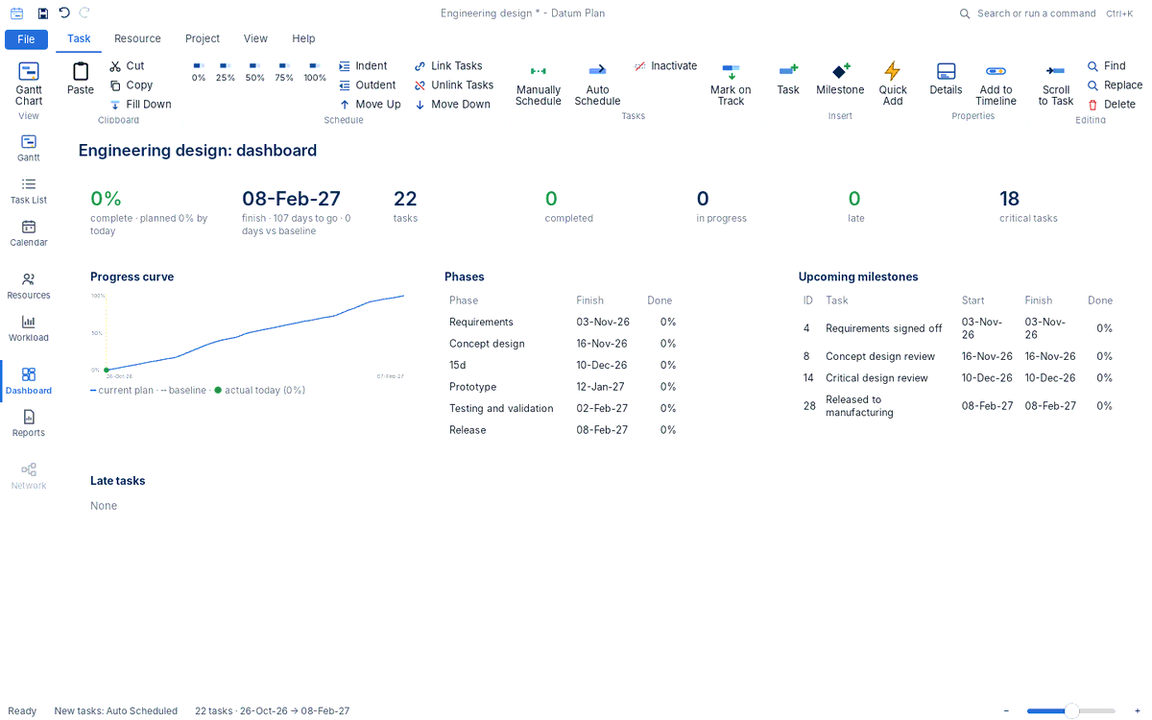
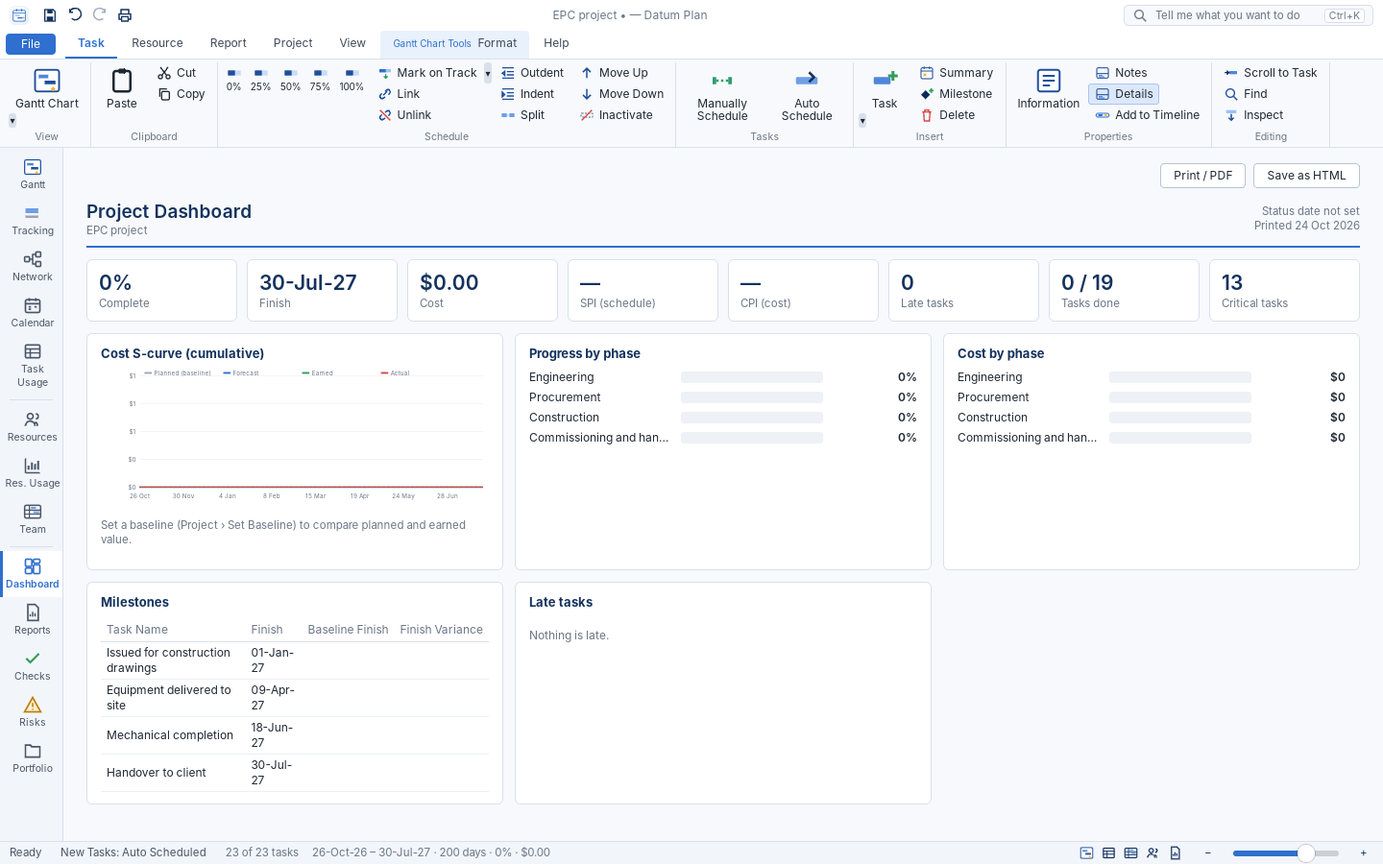
Release 0.3.0: version bump, changelog, README, project memory
Claude-Session: https://claude.ai/code/session_01U95SoCZjekwdNVu1deE1Dy

diff --git a/ui/src/grid.tsx b/ui/src/grid.tsx
@@ -184,7 +184,7 @@ export const Grid = (p: { width?: number }) => {
             draggable onDragStart={() => setDrag(k())} onDragEnd={() => setDrag(null)} onDragOver={e => e.preventDefault()}
             onDrop={() => { const f = drag(); if (f === null || f === k()) return; const v = [...cols()]; const [m] = v.splice(f, 1); v.splice(k(), 0, m); saveCols(v); setDrag(null); }}
             onContextMenu={e => headMenu(e, k())} onDblClick={() => D.fieldSettings(k())}>
-            <span>{c.name}</span><button class="dd" onClick={e => headMenu(e, k())}><Icon n="chev" /></button><i class="rz" onMouseDown={e => resize(e, k())} />
+            <span>{c.key === "mode" && widths()[k()] < 50 ? "" : c.name}</span><button class="dd" onClick={e => headMenu(e, k())}><Icon n="chev" /></button><i class="rz" onMouseDown={e => resize(e, k())} />
           </div>
         )}</For>
         <div class="hc add" onClick={e => openMenu(e, fieldMenu(key => saveCols([...cols(), [key, 90]])))}>Add New Column ▾</div>

diff --git a/ui/src/ui.tsx b/ui/src/ui.tsx
@@ -48,7 +48,7 @@ export const Dialog = (p: { title: string; wide?: boolean; children: JSX.Element
     if (e.key === "Enter" && !(e.target instanceof HTMLTextAreaElement) && !(e.target instanceof HTMLButtonElement)) { e.preventDefault(); done(); }
   };
   let el!: HTMLDivElement;
-  onMount(() => (el.querySelector("input,select,textarea") as HTMLElement | null)?.focus());
+  onMount(() => ((el.querySelector("input:not([type=checkbox]),textarea") ?? el.querySelector(".btn.pri")) as HTMLElement | null)?.focus());
   return (
     <div class="ov" onKeyDown={key}>
       <div class="dlg" classList={{ wide: p.wide }} ref={el}>

diff --git a/docs/MEMORY.md b/docs/MEMORY.md
@@ -6,11 +6,11 @@
 | | |
 | --- | --- |
 | **Product** | Datum Plan: a Windows desktop scheduler combining MS Project (look, ease of use) and Primavera P6 (power features) |
-| **Current version** | **0.2.0** (released 2026-10-24). Earlier: 0.1.0, 0.1.1 |
+| **Current version** | **0.3.0** (released 2026-10-24). Earlier: 0.1.0, 0.1.1, 0.2.0 |
 | **Repo** | `Edgar-Mendonca/Datum-Plan` · working branch `claude/fervent-keller-ddas5s` (currently also the default branch) |
-| **Stack** | Rust (engine + shell), Tauri 2, WebView2, strict TypeScript UI with no framework, plain CSS |
-| **Code size** | About 5,400 lines: core 3,000 (with 311 lines of tests), shell 520, UI 1,550 TypeScript + CSS |
-| **Installer** | NSIS `.exe`, per-user install. 1.7 MB (0.1.0), 1.8 MB (0.1.1); 2.4 MB (0.2.0) |
+| **Stack** | Rust (engine + shell), Tauri 2, WebView2, SolidJS + Vite UI in strict TypeScript (TSX), plain CSS |
+| **Code size** | About 9,300 lines: core 5,700 (with 460 lines of tests), shell 700, UI 2,900 TSX + CSS |
+| **Installer** | NSIS `.exe`, per-user install. 1.7 MB (0.1.0), 1.8 MB (0.1.1), 2.4 MB (0.2.0); UI bundle 200 kB JS (61 kB gzip) in 0.3.0 |
 | **Reference repos** | `Edgar-Mendonca/Cairn` (the earlier web planner: feature and template reference) · `Compressor-Engineering-Suite` (the Home/update pattern) |
 
 ---
@@ -19,42 +19,43 @@
 
 ```mermaid
 flowchart LR
-  subgraph UI["Window (WebView2) · ui/ + ui-src/*.ts"]
-    Ribbon[Ribbon: Task · Resource · Project · View · Help<br/>Ctrl+K search · Ctrl+J quick add]
-    Grid[grid.ts: any-field columns, editing,<br/>clipboard, find, row menus]
-    Gantt[gantt.ts: canvas Gantt + timeline strip,<br/>drag move/resize/progress/link]
-    Det[details.ts: P6-style pane<br/>General · Relationships · Resources · Notes]
-    Pages[pages.ts: Calendar · Resource Sheet ·<br/>Workload · Dashboard · Reports]
-    Dlg[dialogs.ts: Project Info · Working Time ·<br/>Options · Import mapping · Palette]
-    Home[main.ts: backstage Home/Templates/<br/>Import/Export/Updates]
+  subgraph UI["Window (WebView2) · ui/src/*.tsx → Vite → ui/dist"]
+    Store[store.ts: signals for plan, view, table, filter,<br/>group, sort, selection; act(op) and refresh()]
+    Rib[ribbon.tsx: tabs, dropdowns, QAT, Tell Me]
+    Grid[grid.tsx: virtual rows, inline edit,<br/>header menus, column drag/resize]
+    Gantt[gantt.tsx: canvas Gantt + timeline]
+    Det[details.tsx: P6 tabs]
+    Views[views.tsx: network, calendar, usage, resources,<br/>graph, team, risks, checks, portfolio]
+    Rep[reports.tsx: dashboard, report gallery, charts]
+    Dlg[dialogs.tsx: information, calendars, custom fields,<br/>filters, groups, sorts, baselines, import, compare]
+    BS[backstage.tsx + setup.tsx: File, Options, updates,<br/>Project Setup panel]
   end
   subgraph Shell["src-tauri (Rust)"]
-    Cmd[main.rs commands: state · apply · history · new_plan · templates<br/>open · save · import · import_table · export · copy · paste<br/>detail · workload · options · autosave · recovery]
-    Upd[update.rs: GitHub API · SHA-256 · silent install]
+    Cmd[main.rs: state · apply · history · query · resources · field_list<br/>task_info · usage · curve · checks · network · compare · workspace<br/>open · save · import · export · save_file · pick_logo · options · recovery]
+    Upd[update.rs: GitHub API · beta channel · SHA-256 · silent install]
   end
-  subgraph Core["crates/core (pure Rust, 13 tests)"]
+  subgraph Core["crates/core (pure Rust, 18 tests)"]
     Doc[doc.rs: Op enum · undo/redo · .dplan]
-    Sched[sched.rs: multi-calendar CPM · constraints<br/>progress · summary links · ALAP]
-    Cal[cal.rs: minute-precision working time]
-    Load[load.rs: work · cost · overallocation · workload]
-    View[view.rs: rows with ~35 fields · resource rows · details]
-    IO[io/: mspdi.rs · xer.rs · table.rs csv+xlsx · xml.rs]
-    Model[model.rs: Project · Task · Calendar · Resource<br/>format 2 + migration from 0.1 files]
+    Sched[sched.rs: CPM · calendars · progress · LOE<br/>longest path · float paths · from finish]
+    Level[level.rs: resource leveling]
+    Fields[fields.rs: Calc · ~450 fields · EV · custom fields<br/>formulas · indicators · filter tests]
+    Query[query.rs: filter · group · sort · outline → Grid + bars]
+    Rep2[report.rs · check.rs · network.rs<br/>usage · curves · compare · DCMA · layout]
+    Form[formula.rs: MSP formula language]
+    Load[load.rs: timephased work and cost]
+    IO[io/: mspdi · xer · table · formats pmxml/mpx/ics/html/json]
   end
   UI -- "invoke(cmd, args)" --> Cmd
-  Cmd -- "View JSON (camelCase)" --> UI
-  Home -- check_update / install_update --> Upd
-  Cmd --> Doc & View & IO & Load
-  Doc --> Sched --> Cal
-  View --> Sched & Load
-  IO --> Model
+  Cmd --> Doc & Query & Rep2 & IO
+  Doc --> Sched
+  Query --> Fields --> Sched & Load & Form
+  Rep2 --> Fields
 ```
 
 **Rules:**
-- The UI never calculates dates.
-- Every edit is an `Op` sent to Rust. The core applies it to a copy, normalises it, schedules it, and keeps it only if it is valid (so cycles are refused).
-- The core then returns a complete `View`, formatted in the user's date format.
-- Dashboard and report numbers are computed in the UI from that `View`.
+- The UI never calculates dates, values or filters. Every edit is an `Op`; the core applies it to a copy, normalises, schedules and keeps it only if valid.
+- After an edit `apply` returns `Out` (project settings without tasks + `Summary`). The window then calls `query(Query)` for the rows it shows; `Calc` (fields.rs) evaluates any field for any row.
+- Window-only settings (saved filters, extra tables) live in `Project.ui`; the Entry table's columns in `Project.columns`.
 
 ### Time model (since 0.2)
 - **Instants** are minutes since 1970-01-01 00:00 local time. **Durations and lags** are working minutes.
@@ -75,28 +76,30 @@ flowchart LR
 
 | Path | What it does |
 | --- | --- |
-| `crates/core/src/model.rs` | Model and file format 2: Task (dur, unit, preds, pct, constraint/cdate, deadline, manual/mstart, inactive, cal, actuals, res, bl, timeline, code, notes), Calendar, Exception, Resource, Project (status, day_min, manual_default, calendars, resources, columns). `from_json` upgrades 0.1 files. `normalize()` repairs data. |
-| `crates/core/src/cal.rs` | `WorkCal`: `add`, `sub`, `between`, `next_start`, `prev_end`, `in_or_end`, `end_of`, `day_minutes`. `at(date)` and `date_of(t)` convert between dates and instants. |
-| `crates/core/src/sched.rs` | CPM as described above. Returns `Sched` with es/ef/ls/lf/tf/ff, summary/off flags, calendar index per task, the calendars, and start/finish. |
-| `crates/core/src/load.rs` | Work and cost per task and resource, daily load, overallocation, and `workload(weekly)` buckets for the Workload view. |
-| `crates/core/src/parse.rs` | Durations with units, dates (display format first), predecessors `3SS+4h`, resources `Name[50%]`, constraint names, and the quick-add sentence parser. |
-| `crates/core/src/doc.rs` | Ops: Insert, InsertRows, QuickAdd, Paste, Delete, Set (about 20 fields), Indent, Outdent, Move, Link, LinkSet, Unlink, MarkOnTrack, Baseline, Project, CalPut, CalDelete, ResInsert, ResSet, ResDelete, Columns, Batch. Also undo/redo (200 steps), `copy()`, and `set()` (reused by the importers). |
-| `crates/core/src/view.rs` | `build(p, date_fmt, today)` → View (rows, resources, calendars, columns, totals, baseline finish and variance). `detail(uid)` → relationships and assignments. |
-| `crates/core/src/templates.rs` | 5 starter plans as `level\|name\|duration\|preds` lines. |
-| `crates/core/src/io/` | `mod.rs` dispatches by extension. `mspdi.rs`: MS Project XML in/out (calendars with exceptions, tasks, links, baselines, resources, assignments). `xer.rs`: P6 XER in/out (CALENDAR with clndr_data parser/writer, PROJECT, PROJWBS ↔ summaries, TASK, TASKPRED, RSRC, TASKRSRC). `table.rs`: CSV/XLSX read with header guessing + mapping → plan; CSV/XLSX write. `xml.rs`: a 60-line XML reader. |
-| `crates/core/src/tests.rs` | 13 tests: calendar arithmetic, CPM/float, link types and hour lags, constraints/deadline/ALAP, task calendars, summary links, inactive tasks, progress/status date, edits/undo/move/paste, resources/costs/baseline/workload, calendar ops/project settings, quick add/rows, parsing, templates + 0.1 migration, and round trips for XML, XER, CSV and XLSX. |
-| `src-tauri/src/main.rs` | App state (Doc, options, clipboard, pending import table), file dialogs, recent files, options.json, recovery.dplan in AppData (written by the `autosave` command on a UI timer; offered at start-up; cleared on save or a clean quit). |
-| `src-tauri/src/update.rs` | Updater (unchanged since 0.1.0). |
-| `ui/index.html` | Layout: title bar with search, ribbon, sidebar, timeline strip, grid, Gantt, details pane, page area, backstage, and the icon sprite (about 55 icons). |
-| `ui/styles.css` | Light theme tokens, all components, print styles. |
-| `ui-src/base.ts` | Types, the field catalogue `FIELDS`, state, core calls, dates, `dialog()` (resolves before removing, so inputs stay readable), `menu()`, toast. |
-| `ui-src/grid.ts` | Columns from `V.columns`, render/virtualise, edit with choice lists, column picker/header menu/resize, row commands, clipboard (DOM copy/cut/paste events; internal marker plus TSV for Excel), find/replace, row menu. |
-| `ui-src/gantt.ts` | Timescale (day/week/month/quarter/year), bars (baseline, manual, inactive, deadline, progress), links, today and status lines, timeline strip, zoom, drag modes `move`/`size`/`pct`/`link`. |
-| `ui-src/details.ts` | The details pane and its tabs; edits go through `Set` and `LinkSet` ops. |
-| `ui-src/pages.ts` | Calendar, Resource Sheet (inline editing), Workload heat table, Dashboard (KPIs, S-curve with baseline, phases, milestones, late), Reports (weekly/monthly, look-ahead, slipped vs baseline, print). |
-| `ui-src/dialogs.ts` | Project Information, Change Working Time, Options, Import (mapping), Export, Ctrl+K palette, Ctrl+J quick add, shortcuts. |
-| `ui-src/main.ts` | `CMDS` registry (ribbon, palette and keys share it), `RIBBON` layout, view sidebar, backstage, files, updates, keyboard, start-up (recovery prompt, autosave timer). |
-| `ui-src/tsconfig.json` | Joins the 7 files in order into `ui/main.js` (no modules, one global scope). |
+| `crates/core/src/model.rs` | File format 3: Task (also task type, effort, activity/% complete type, physical %, elapsed, splits, leveling delay, priority, fixed cost + accrual, custom values, codes, steps, notebook, expenses, docs, 11 baselines in `bls`), Resource (rate tables, availability, calendar, overtime), Project (setup fields, logo, currency, Activity ID numbering, `SchedOpts`, custom field defs, codes, risks, snapshots, `ui`). Migrates formats 1–2. |
+| `crates/core/src/cal.rs` | `WorkCal`: working-time arithmetic. |
+| `crates/core/src/sched.rs` | CPM → `Sched` (es/ef/ls/lf/tf/ff, edges with driving flags, longest path, float paths, calendars incl. a 24-hour one). `critical()` follows the options. |
+| `crates/core/src/level.rs` | Serial leveling with a fixed rank; `clear`. |
+| `crates/core/src/load.rs` | Work/cost per task, assignment and day (rate tables, accruals, actuals); `buckets(day/week/month/quarter)`. |
+| `crates/core/src/formula.rs` | MS Project formula parser and evaluator (34 functions). |
+| `crates/core/src/fields.rs` | Field registry (`task_fields`, `resource_fields`), `Calc` (one scheduled plan + loads + EV), `val/text/format/icon`, filter `test`, `money`. |
+| `crates/core/src/query.rs` | `Query` → `Grid` (cols, rows with cells, icons, bar geometry), built-in filters, `Summary`. |
+| `crates/core/src/report.rs` | Usage grids, cost/EV curves, compare. |
+| `crates/core/src/check.rs` | DCMA 14 + P6 checks with limits. |
+| `crates/core/src/network.rs` | Network Diagram layout (columns by logic, rows by predecessor position). |
+| `crates/core/src/parse.rs` | Durations (also elapsed), dates, predecessors (also % lags), resources, quick add. |
+| `crates/core/src/doc.rs` | Ops (see the enum: edits, Level, Split, Interim, UpdateProject, Snapshot, ProjectSet, FieldDef, CodeDef, Risk, TaskList, ResJson, Ui, Baseline n, …), undo/redo, `.dplan`. |
+| `crates/core/src/io/` | `mspdi.rs`, `xer.rs`, `table.rs` (CSV/XLSX in with mapping; out with chosen columns), `formats.rs` (JSON, HTML, ICS, MPX, PMXML out), `xml.rs`. JSON/dplan import. |
+| `crates/core/examples/` | `bench.rs` (20k-task timing), `dump.rs` (JSON fixtures for UI tests). |
+| `crates/core/src/tests.rs` | 18 tests. |
+| `src-tauri/src/main.rs` | Commands listed in the diagram; options (date format, autosave, beta, default currency, company, logo, workspace, setup panel); backups of format < 3 files; recovery. |
+| `src-tauri/src/update.rs` | Updater; `check(beta)` reads `/releases` when beta is on; versions compare with pre-release tags. |
+| `ui/index.html` | Root and the icon sprite (about 65 icons). `ui/public/logo.svg`. |
+| `ui/src/api.ts` | Types matching the Rust JSON, `invoke`, date and money helpers. |
+| `ui/src/store.ts` | Global signals, built-in tables, `query()`, `refresh()`, `act()`, menus, dialogs, toast. |
+| `ui/src/cmds.ts` | Command functions `C` and the `ALL_CMDS` list for Tell Me. |
+| `ui/src/ui.tsx` | Icon, Menu (with submenus), Dialog, Tabs, form helpers. |
+| `ui/src/grid.tsx`, `gantt.tsx`, `details.tsx`, `views.tsx`, `reports.tsx`, `dialogs.tsx`, `ribbon.tsx`, `backstage.tsx`, `setup.tsx`, `main.tsx` | As in the diagram. `styles.css` holds the light theme and print styles. |
 
 ### Update flow
 
@@ -155,6 +158,10 @@ flowchart LR
 | 0.3 plan | **Datum scheduling style** (PLAN-0.3 §3.P): fixed duration, single Progress field, retained logic, slack ≤ 0 critical with a longest-path switch, auto actuals, an Explain panel, calculated cells marked | The user wants something easier than both MSP and P6. |
 | 0.3 plan | **Project Setup** panel (skippable, docked right) as step one of every new plan; all ISO currencies; logo and company branding; Activity IDs A1000+10; MSP-style network; MSP density; English only; beta backups | The user's answers, 2026-10-24. |
 | 0.3 plan | `docs/reference/MSP-P6-feature-reference.md` (from the user) is the behaviour spec; its C2 scenarios become tests and a checklist | A shared, written definition of done. |
+| 0.3.0 | Shipped as one release (no betas) because the user asked to "build and release 0.3" | Betas stay available through the opt-in channel for later versions. |
+| 0.3.0 | The engine owns fields, filters, groups and sorts (`Calc` + `query`); the window asks for rows per view | One place for values, exports use the same text; 20k tasks query in ~50 ms. |
+| 0.3.0 | Print/PDF through the WebView print dialog ("Save as PDF") with print CSS, instead of a PDF library | No extra dependency; works for every view and report. |
+| 0.3.0 | Templates still use the Project Setup panel (setup_done = false) | Setup is step one of every new plan, as agreed. |
 
 ---
 
@@ -167,7 +174,8 @@ flowchart LR
 | **0.1.0** | Shell + updater + core | Installer, Home, updater, ribbon, grid, summaries, links, CPM, Gantt, undo, `.dplan` | ✅ |
 | **0.1.1** | Look, views, reports | Light theme, logo, sidebar, templates, drag bars, Calendar, Dashboard, weekly/monthly report | ✅ |
 | **0.2.0** | The big one | Grid power (any column, clipboard, fill, move, find/replace, menus), Gantt power (timeline, progress drag, details pane, link editing), Ctrl+K, Ctrl+J, Options, recovery, minute calendars + exceptions + task calendars, all constraints + deadlines, manual/inactive tasks, summary links, status date + actuals + Mark on Track, baselines + variance, resources + costs + workload, import/export XML/XER/XLSX/CSV | ✅ |
-| **0.3.0** | MSP look + P6 power (one big release, shipped as betas) | Everything planned for 0.2.1 → 0.5.2, network diagram included. Full scope and beta milestones in **[PLAN-0.3.md](PLAN-0.3.md)**: MSP ribbon with dropdowns and Format tabs, about 450 fields + custom fields/formulas/lookups/indicators, Field Settings, Information dialogs, tables, filters, groups and views, formatting, task types, leveling, P6 activity types, longest path, usage views, Team Planner, Network Diagram, 11 baselines, Update Project, earned value, costs, report gallery and designer, page setup/PDF, DCMA check, compare, risks, EPS workspace, new formats (P6 XML, MPX, ICS, HTML, JSON) | 🔜 plan under review |
+| **0.3.0** | MSP look + P6 power (one big release) | Everything planned for 0.2.1 → 0.5.2, network diagram included. Full scope and beta milestones in **[PLAN-0.3.md](PLAN-0.3.md)**: MSP ribbon with dropdowns and Format tabs, about 450 fields + custom fields/formulas/lookups/indicators, Field Settings, Information dialogs, tables, filters, groups and views, formatting, task types, leveling, P6 activity types, longest path, usage views, Team Planner, Network Diagram, 11 baselines, Update Project, earned value, costs, report gallery and designer, page setup/PDF, DCMA check, compare, risks, EPS workspace, new formats (P6 XML, MPX, ICS, HTML, JSON) | ✅ (see 0.3.1 for what slipped) |
+| 0.3.1 | Polish | Report designer, Page Setup dialog, bar/text styles editor, recurring tasks, Relationship diagram, global change, EPS hierarchy, XER/MSPDI custom fields and codes, the reference's C2 scenarios as tests | 🔜 |
 | 0.6.0 | Portfolio | Portfolio dashboard, master/subprojects, shared resource pool, cross-project links | ⬜ |
 | 0.6.1 | Hardening | 100k-activity performance, code signing, signed updater, crash reports, dark theme | ⬜ |
 | 1.0.0 | Stable | — | ⬜ |
@@ -177,7 +185,8 @@ flowchart LR
 - Dashboard with S-curve and baseline curve ✅
 - Command search ✅ and quick-add sentences ✅
 - Recovery copies ✅
-- Later: period snapshots with comments and photos, schedule health score, one-click report pack, what-if comparison
+- Project Setup panel, DCMA check with drill-down, risk register, snapshots with trend ✅ (0.3.0)
+- Later: schedule health score, one-click report pack, what-if comparison
 
 ### Gap analysis (MSP, P6 and Cairn vs Datum Plan)
 | Area | MS Project | Primavera P6 | Cairn 0.8 | Datum Plan |
@@ -187,15 +196,15 @@ flowchart LR
 | Column picker | ✓ | ✓ | ✓ | ✓ 0.2 (custom fields and formulas in 0.3) |
 | Calendars (hours, exceptions, many) | ✓ | ✓ | ✓ | ✓ 0.2 (resource calendars in 0.3) |
 | Constraints, deadlines, manual, inactive | ✓ | ✓ | ✓ | ✓ 0.2 |
-| Task types, effort-driven, recurring, split | ✓ | duration types | ✓ | 0.3 |
+| Task types, effort-driven, recurring, split | ✓ | duration types | ✓ | ✓ 0.3 (recurring in 0.3.1) |
 | File exchange (XLSX, CSV, XML, XER) | ✓ | ✓ | ✓ | ✓ 0.2 |
 | Resources, costs, workload | ✓ | ✓ | ✓ | ✓ 0.2 (leveling in 0.3, rates over time in 0.3) |
 | Baseline, actuals, status date | ✓ | ✓ | ✓ | ✓ 0.2 (11 baselines and earned value in 0.3) |
-| EPS, activity codes, multi-project | master projects | ✓ | — | 0.3 |
-| Filters, groups, layouts, global change | ✓ | ✓ | ✓ | 0.3 |
-| Schedule check, longest path, float paths | — | ✓ | partial | 0.3 |
-| Network diagram | ✓ | ✓ | ✓ | 0.3 |
-| Dashboards and periodic reports | basic | basic | 16 reports | ✓ 0.1.1/0.2, more in 0.3 |
+| EPS, activity codes, multi-project | master projects | ✓ | — | ✓ 0.3 codes + portfolio folder |
+| Filters, groups, layouts, global change | ✓ | ✓ | ✓ | ✓ 0.3 (global change 0.3.1) |
+| Schedule check, longest path, float paths | — | ✓ | partial | ✓ 0.3 |
+| Network diagram | ✓ | ✓ | ✓ | ✓ 0.3 |
+| Dashboards and periodic reports | basic | basic | 16 reports | ✓ 0.3 (10 reports + dashboard) |
 
 ---
 
@@ -239,9 +248,19 @@ flowchart LR
 
 ---
 
+### 2026-10-24: Session 5 (0.3.0)
+- The user said "build and release 0.3". Built it as one release.
+- Engine: model format 3; scheduler upgrades (elapsed, % lags, splits, LOE/WBS summary, retained logic/progress override, schedule from finish, longest path, float paths, lag calendars); leveling; task types; formula language; field registry with EV; query API; usage/curves/compare; DCMA + P6 checks; network layout; new export formats. Benchmark: 20k tasks schedule 36 ms, calc 44 ms, grid 49 ms (release).
+- Shell: new commands, beta channel, backups of older plans, logo picker, file saving for pictures and HTML.
+- UI: rewritten in SolidJS + Vite (10 TSX files). Ribbon with dropdowns, Tell Me, grid with header menus, Gantt + timeline, P6 details tabs, all views, reports, dialogs, Project Setup panel.
+- Tested in the real app under Xvfb: templates, Project Setup, inline edits rescheduling, context menu, Task Information, baseline + progress, Tracking Gantt, weekly report, Network Diagram, Calendar, Task Usage, Checks, Dashboard. Bugs fixed: a global `svg` size rule hid the network diagram; Enter in a dialog's first select did not press OK; select text clipped in WebKitGTK; keys only worked with focus inside the app div.
+- UI test harness: `cargo run -p datum-core --example dump > fix.json`, then a Playwright script that serves `ui/dist` with a mocked `window.__TAURI__` (kept in the session scratchpad; rebuild it from this note if needed).
+
+---
+
 ## 5. Known limits and next steps
-- Windows SmartScreen warns on the first install (unsigned). Updates after that are silent. **Confirm with the user that 0.1.x → 0.2.0 updated in-app.**
-- XER export is checked against our own importer only. MSPDI export is checked against our own reader; it needs a real MS Project test.
-- Large plans: the grid is virtualised, but `view::build` and links run on every edit. Profile 10k+ tasks in 0.6.1.
-- Printing prints the current view only. Page setup comes in 0.2.1.
-- All decisions are answered and the reference is stored. Waiting for the user's "yes" to start the 0.3 build (beta.1 first). Read PLAN-0.3.md §3.P–T and the reference before building.
+- Windows SmartScreen warns on the first install (unsigned). Updates after that are silent.
+- XER/PMXML/MPX exports are checked against our own readers only; needs real P6 and MS Project tests. Custom fields and codes are not yet written to XER/MSPDI.
+- The grid fetches all visible rows per change (about 8 MB JSON at 20k tasks); fine to ~20k, 100k needs row windows (0.6.1).
+- Not built yet (0.3.1): report designer, Page Setup dialog, bar/text style editors, recurring tasks, Relationship diagram, global change, EPS tree, the reference's C2 scenario tests.
+- Templates have no resources or costs, so cost reports are empty until resources are added.

diff --git a/CHANGELOG.md b/CHANGELOG.md
@@ -1,5 +1,71 @@
 # Changelog
 
+## 0.3.0 — 2026-10-24
+
+The biggest release so far: the MS Project look and feel with Primavera P6 power, rebuilt from the engine up. Everything planned for 0.2.1 to 0.5.2 is in this one release, including the network diagram.
+
+**A new window (SolidJS)**
+- MS Project ribbon: Task, Resource, Report, Project, View and the Gantt Chart Tools Format tab, with dropdown and split buttons (Gantt Chart, Filter, Group by, Sort, Tables, Outline, Timescale, Baseline, Export).
+- Tell Me (Ctrl+K or Alt+Q) searches every command. Quick access toolbar with Save, Undo, Redo and Print.
+- Task sheet at MS Project density (20 px rows): drag columns to reorder, resize, double-click a heading for Field Settings, right-click a heading to insert, hide, sort, group or filter, and an "Add New Column" picker over about 450 fields.
+- Inline editing with choice lists, Tab/Enter navigation, type-to-edit, a blank row for new tasks, indicators for late and manual tasks, and a task mode column.
+- Status bar with filter state, task count, project figures, view shortcuts and a zoom slider.
+
+**Fields, custom fields and formulas**
+- About 450 task fields: general, schedule, progress, work and cost, 11 baselines (start, finish, duration, cost, work), variances, earned value, and custom Text1–30, Number1–20, Flag1–20, Date, Cost, Duration, Start, Finish and Outline Code fields.
+- Custom Fields dialog: rename (alias), lookup tables with restricted values and defaults, MS Project formulas (`IIf`, `Switch`, `ProjDateDiff`, `DateAdd`, 34 functions, `[Field]` references), summary rollups and graphical indicators.
+- Activity codes (P6) with values and colours: show as columns, group and filter by them.
+- Inspect shows every field of a task.
+
+**Views**
+- Gantt Chart and Tracking Gantt with critical path, slack, late bars, baseline 0–10, splits, deadlines, today and status lines, bar labels, and drag to move, resize, link or set progress.
+- MS Project timeline across the top.
+- Network Diagram (MS Project style boxes, critical links, progress crosses, milestones).
+- Calendar, Task Usage, Resource Usage (days, weeks, months, quarters; work or cost; overallocation in red), Resource Sheet, Resource Graph and Team Planner.
+- Tables: Entry, Schedule, Tracking, Cost, Work, Variance, Earned Value, Summary, Baseline and P6 Activities, plus your own.
+- Filters (20 built-in plus your own, with and/or conditions, related summaries and highlight mode), groups (several levels, with rolled-up dates and costs) and sorts that keep the outline. Outline levels, expand and collapse, project summary task.
+
+**Primavera P6 power**
+- Details pane with P6 tabs: General, Status, Resources, Predecessors, Successors (with driving links and float), Codes, Steps (weighted physical %), Notebook, Expenses, WPs & Docs, Custom Fields, Risks and Notes.
+- Activity types (task dependent, resource dependent, level of effort, start/finish milestone, WBS summary) and % complete types (duration, units, physical).
+- Schedule options: retained logic or progress override, critical by float or longest path, lag calendar, float paths, schedule from finish, open ends.
+- Elapsed durations (`3ed`), percentage lags (`2SS+50%`), task splits, priorities and leveling delay.
+- Resource leveling (standard, priority or ID order, within slack) and clearing it.
+- Task types: fixed duration, fixed units and fixed work, effort driven.
+
+**Costs, progress and earned value**
+- Cost rate tables A–E with dated rate changes, overtime rates, availability periods and resource calendars.
+- Fixed costs and expenses with start, prorated or end accrual.
+- 11 baselines, Update Project, Store Period Performance (snapshots) and trend reports.
+- Earned value per task and project: PV, EV, AC, SV, CV, SPI, CPI, BAC, EAC, VAC, TCPI.
+- Currencies: any ISO 4217 code, chosen per plan, with symbol and decimals.
+
+**Reports and dashboards**
+- Dashboard: complete, finish, cost, SPI, CPI, late and critical counts, cost S-curve (planned, forecast, earned, actual), progress and cost by phase, milestones and late tasks.
+- Report gallery: Project Overview, Weekly/Monthly Progress, Earned Value, Cost Overview with cash flow, Work Overview, Critical Tasks, Late & Slipping, Milestones, Upcoming Tasks and Trend.
+- Your logo and company name on every report. Print or save as PDF, save as HTML, save the Gantt chart as a PNG picture.
+- Check Schedule: the DCMA 14-point assessment plus P6 checks (long lags, SF links, soft constraints, manual tasks, summary links, out of sequence, missed deadlines), with your thresholds; click a check to filter its tasks.
+- Risk register with probability × impact scoring, a heat map and links to tasks.
+- Compare Projects: added, removed and changed tasks against another .dplan, XML or XER file.
+- Portfolio: every plan in a folder with its dates, progress, cost, SPI, CPI and late tasks.
+
+**New projects**
+- Project Setup panel on the right (skippable): project details, Activity ID numbering (A1000, step 10), calendar, currency, WBS typed as an indented list, resources, and branding.
+- Change Working Time, Project Information (with statistics), Resource Information (costs, availability, notes) and Task Information dialogs.
+
+**Files**
+- New export formats: Primavera P6 XML (.pmxml), MPX, iCalendar (.ics), HTML and JSON. Excel and CSV export the current table's columns.
+- JSON import. Plans from 0.2 open as before; a copy is kept as `name.backup.dplan` before they are upgraded.
+
+**Updates**
+- Opt in to beta versions in Options.
+
+**Under the hood**
+- The engine computes every field, filter, group and sort, so the window stays fast with large plans (20,000 tasks schedule and display in about 0.15 seconds).
+- 18 engine tests, including earned value, formulas, leveling, splits, schedule from finish and the schedule checks.
+
+**Coming in 0.3.1:** report designer, Page Setup, bar and text style editors, recurring tasks, Relationship diagram, global change, an EPS tree, and custom fields and codes in XER and MS Project XML.
+
 ## 0.2.0 — 2026-10-24
 
 A big step towards MS Project and Primavera P6: real calendars, constraints, resources, progress tracking, baselines, file exchange, and a lot more control in the grid and the Gantt chart.

diff --git a/README.md b/README.md
@@ -20,19 +20,22 @@
 
 ## What it does today
 
-- **MS Project look, P6 power:** ribbon, task sheet and Gantt chart, a timeline strip, and a Primavera-style details pane (General, Relationships, Resources, Notes).
-- **Scheduling to the minute:** calendars with working hours and holidays, task calendars, all constraints and deadlines, manual and inactive tasks, FS/SS/FF/SF links with lags in hours or days, and critical path with total and free float.
-- **Progress:** status date, actual dates, remaining duration, Mark on Track, baselines with variance and baseline bars.
-- **Resources:** a resource sheet (work, material and cost), assignments, costs, and workload with overallocation.
-- **Views:** Gantt, Task List, Calendar, Resources, Workload, Dashboard (S-curve) and weekly/monthly Reports.
-- **Exchange:** import and export MS Project XML, Primavera P6 XER, Excel and CSV.
-- **Speed:** any column you need, cut/copy/paste (also from Excel), fill down, find/replace, Ctrl+K command search, Ctrl+J quick add, and recovery of unsaved work.
-- **Updates:** one-click updates from GitHub Releases, with SHA-256 checksum verification.
+- **MS Project look, P6 power:** ribbon with dropdowns, Tell Me command search, a dense task sheet with about 450 fields, an interactive Gantt chart with a timeline, and a Primavera-style details pane (General, Status, Resources, Predecessors, Successors, Codes, Steps, Notebook, Expenses, Documents, Custom Fields, Risks, Notes).
+- **Scheduling to the minute:** calendars with working hours and holidays, task and resource calendars, all constraints and deadlines, manual and inactive tasks, elapsed durations, percentage lags, splits, task types, P6 activity types, retained logic or progress override, longest path, float paths, schedule from finish, and resource leveling.
+- **Custom fields and formulas:** aliases, lookup tables, MS Project formulas, rollups and graphical indicators; P6 activity codes.
+- **Views:** Gantt, Tracking Gantt, Network Diagram, Calendar, Task Usage, Resource Sheet, Resource Usage, Resource Graph, Team Planner, Dashboard, Reports, Check Schedule, Risks and Portfolio. Tables, filters, groups and sorts like MS Project.
+- **Progress and cost control:** status date, Update Project, 11 baselines, snapshots, rate tables, fixed costs and expenses, any currency, and earned value (SPI, CPI, EAC, TCPI).
+- **Reports:** dashboard with S-curves, weekly and monthly progress reports, earned value, cost and cash flow, milestones, DCMA 14-point schedule check, compare projects; your logo on every page; print to PDF or save as HTML.
+- **Exchange:** MS Project XML, Primavera P6 XER and P6 XML, MPX, Excel, CSV, iCalendar, HTML and JSON.
+- **New projects:** a skippable Project Setup panel (details, Activity IDs, calendar, currency, WBS, resources, branding) and six templates.
+- **Local and private:** plans are `.dplan` files on your computer. The only network call is the update check. One-click updates with SHA-256 verification, with an optional beta channel.
 
-<img src="docs/images/details.png" alt="Details pane with relationships" width="100%">
+<img src="docs/images/network.png" alt="Network Diagram" width="100%">
+<img src="docs/images/details.png" alt="Task Information" width="100%">
 <img src="docs/images/dashboard.png" alt="Dashboard" width="100%">
+<img src="docs/images/checks.png" alt="Check Schedule" width="100%">
 
-See the [changelog](CHANGELOG.md) for details and the [roadmap](docs/MEMORY.md#roadmap) for what comes next.
+See the [changelog](CHANGELOG.md) for details and the [roadmap](docs/MEMORY.md#3-roadmap) for what comes next.
 
 ## Build from source
 
@@ -40,7 +43,7 @@ You need Rust (stable) and Node.js 20+. On Linux, also install `libwebkit2gtk-4.
 
 ```bash
 npm ci
-npm run dev        # run the app
+npm run dev        # build the UI (Vite + SolidJS) and run the app
 cargo test         # engine tests
 npm run build      # Windows installer (on Windows)
 ```

diff --git a/CLAUDE.md b/CLAUDE.md
@@ -12,7 +12,7 @@ User preferences:
 - Ship in small numbered releases (0.1.0, 0.1.1, …). Every release appears in the in-app updater.
 - A light theme with blue accents (since 0.1.1), MS Project layout, P6 power features, Cairn-style sidebar.
 - Keep code compact and match the surrounding style. Engine logic belongs in `crates/core` (pure Rust, unit-tested), not in the UI.
-- The UI is 7 script files in `ui-src/` sharing one global scope, joined by tsc in the order set in `ui-src/tsconfig.json`.
+- The UI is SolidJS + Vite in `ui/src/*.tsx` (built to `ui/dist`). State lives in `ui/src/store.ts`; the engine computes all values, the window only shows them.
 
 Checks before pushing:
 - `cargo clippy --workspace --all-targets -- -D warnings`
